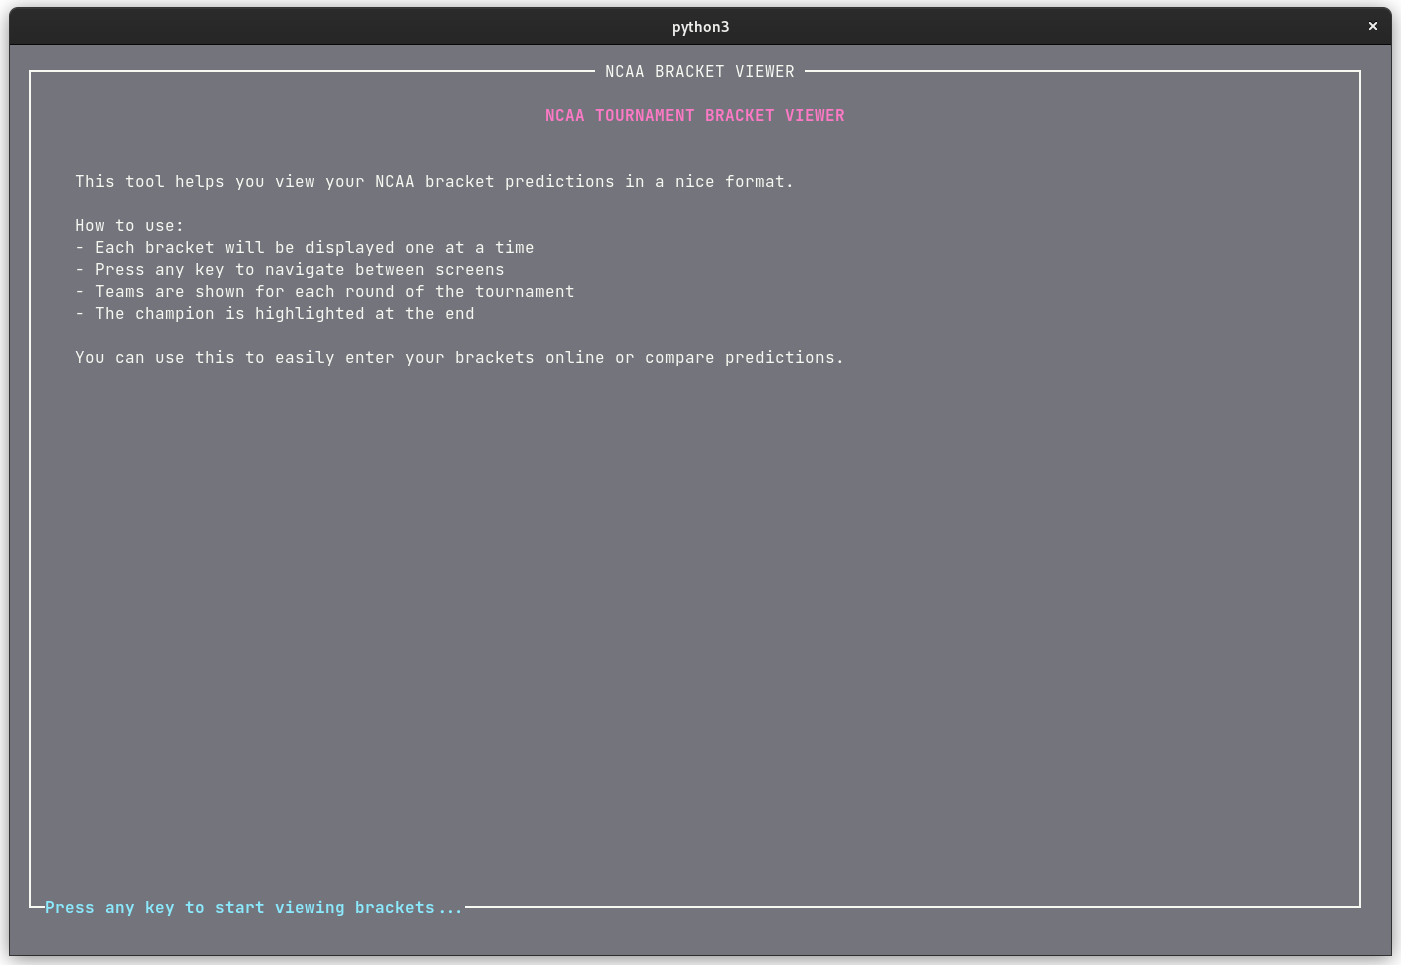
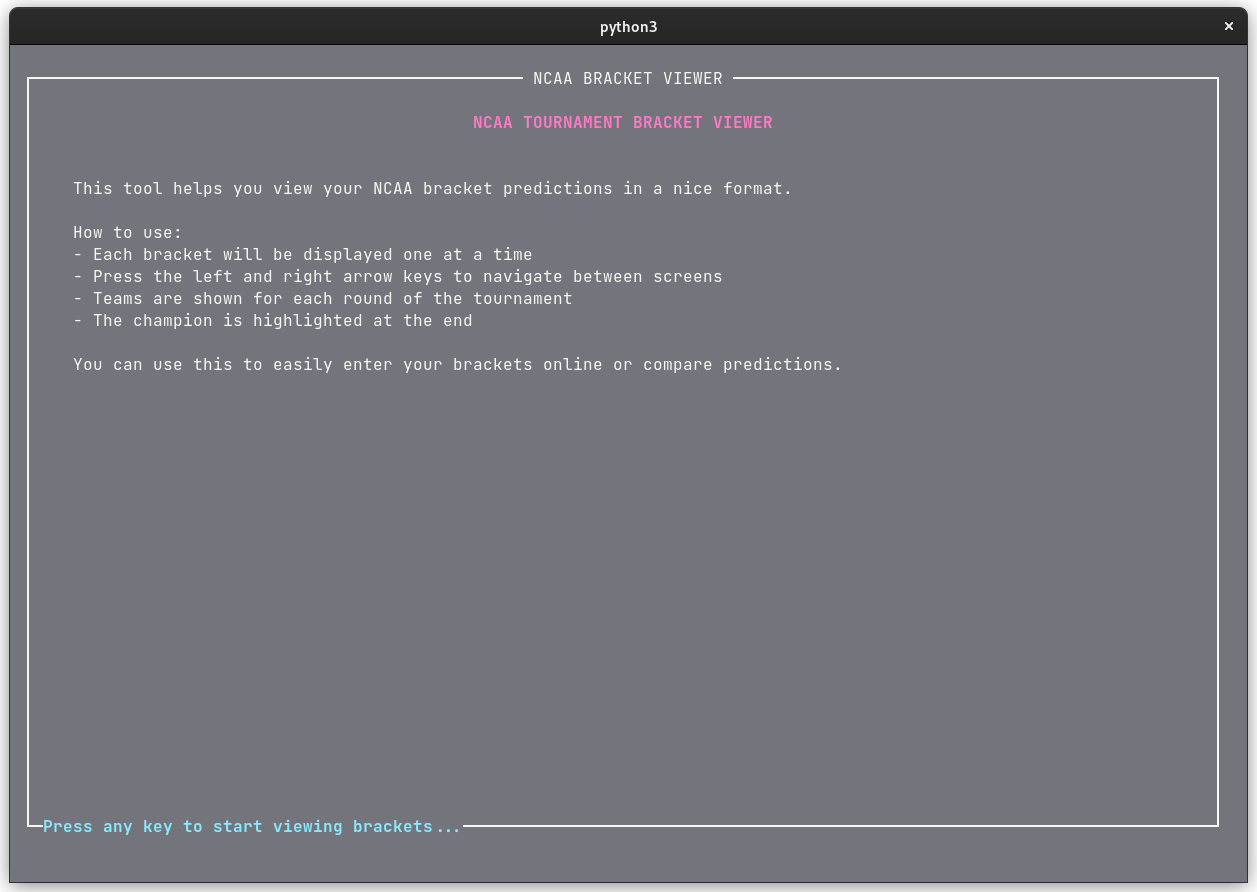
typos

Changed region(s): [[0.0, 0.0, 1.0, 0.9686], [0.0621, 0.1816, 0.6516, 0.4238], [0.3413, 0.9383, 0.9618, 0.9686]]

diff --git a/src/ui/screens.py b/src/ui/screens.py
@@ -28,7 +28,7 @@ def show_welcome_screen(stdscr):
         "",
         "How to use:",
         "- Each bracket will be displayed one at a time",
-        "- Press any key to navigate between screens",
+        "- Press the left and right arrow keys to navigate between screens",
         "- Teams are shown for each round of the tournament",
         "- The champion is highlighted at the end",
         "",
